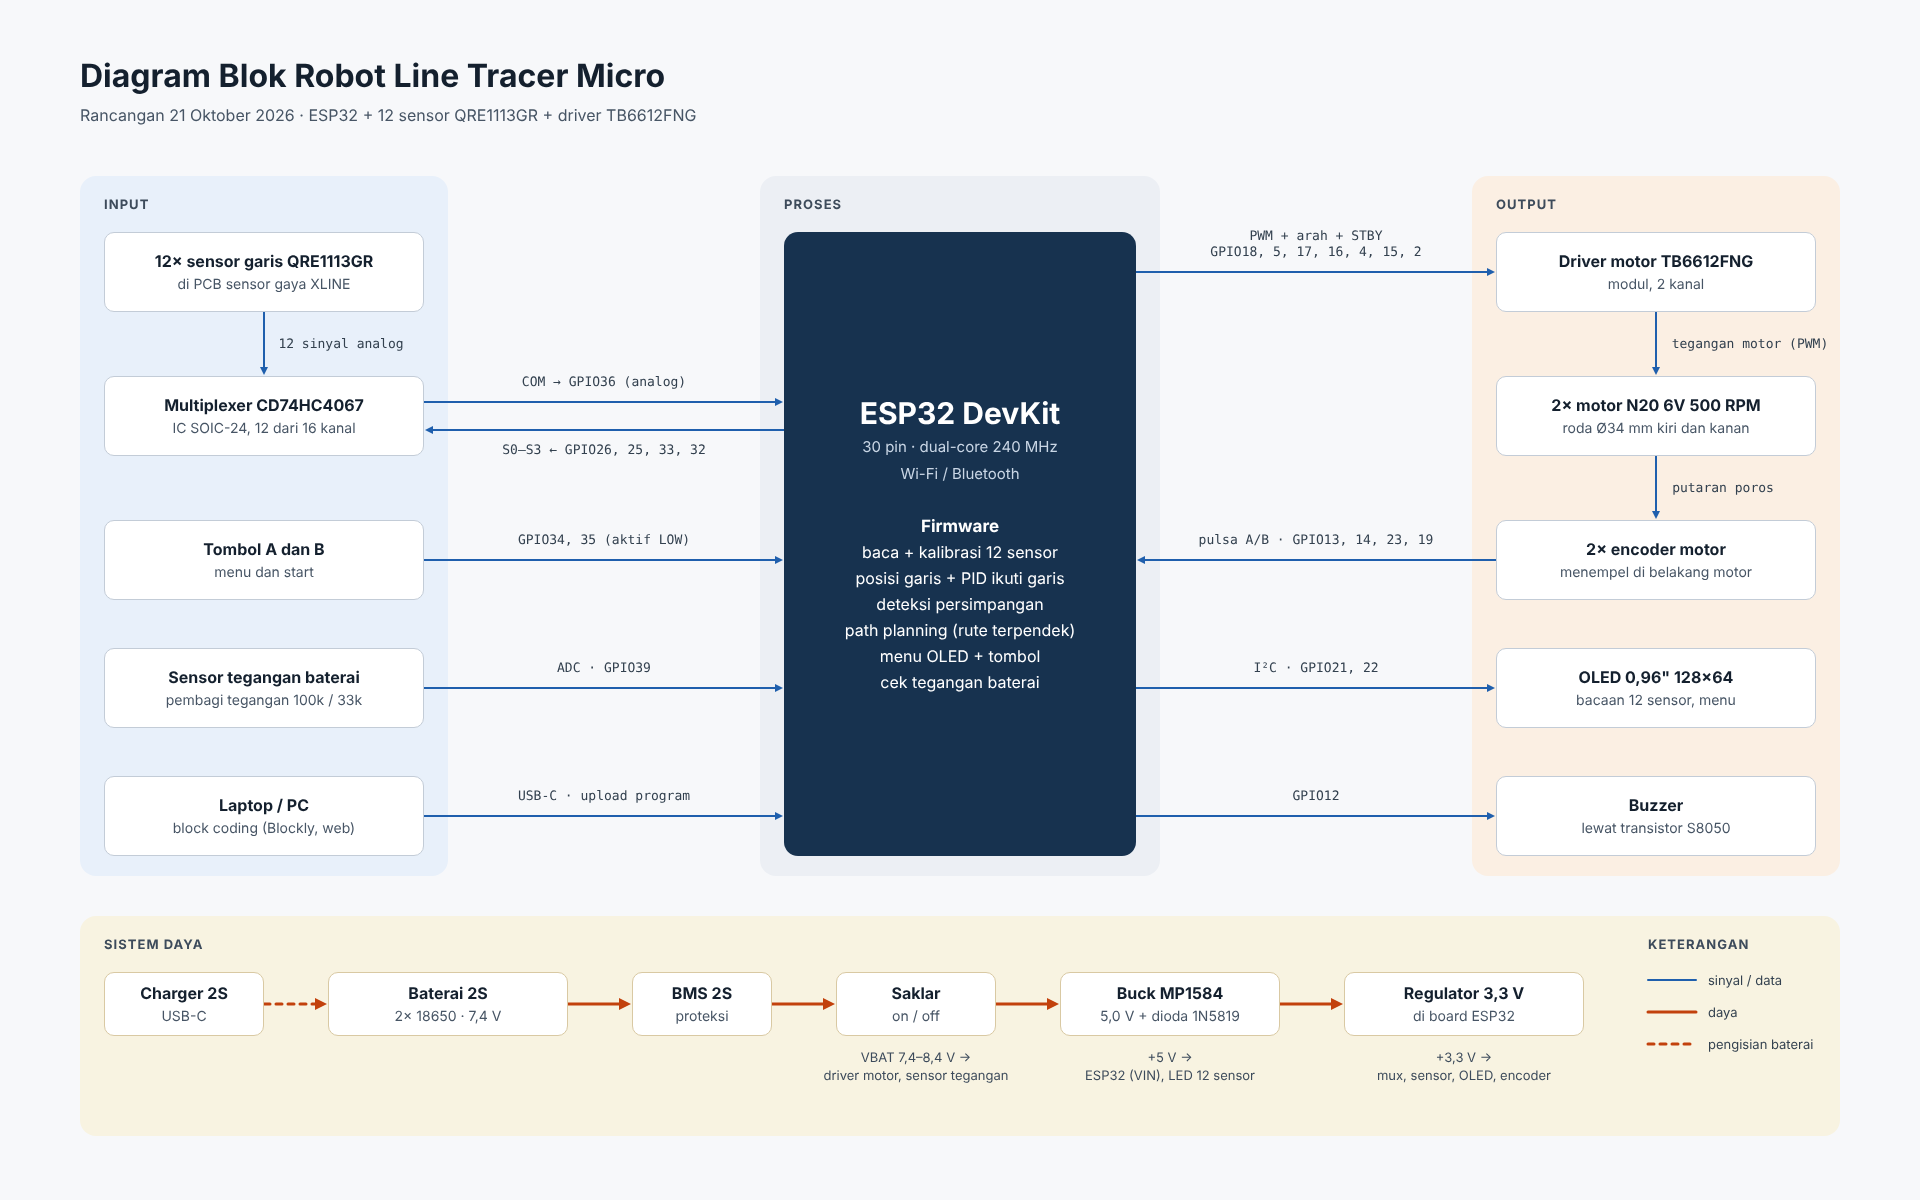
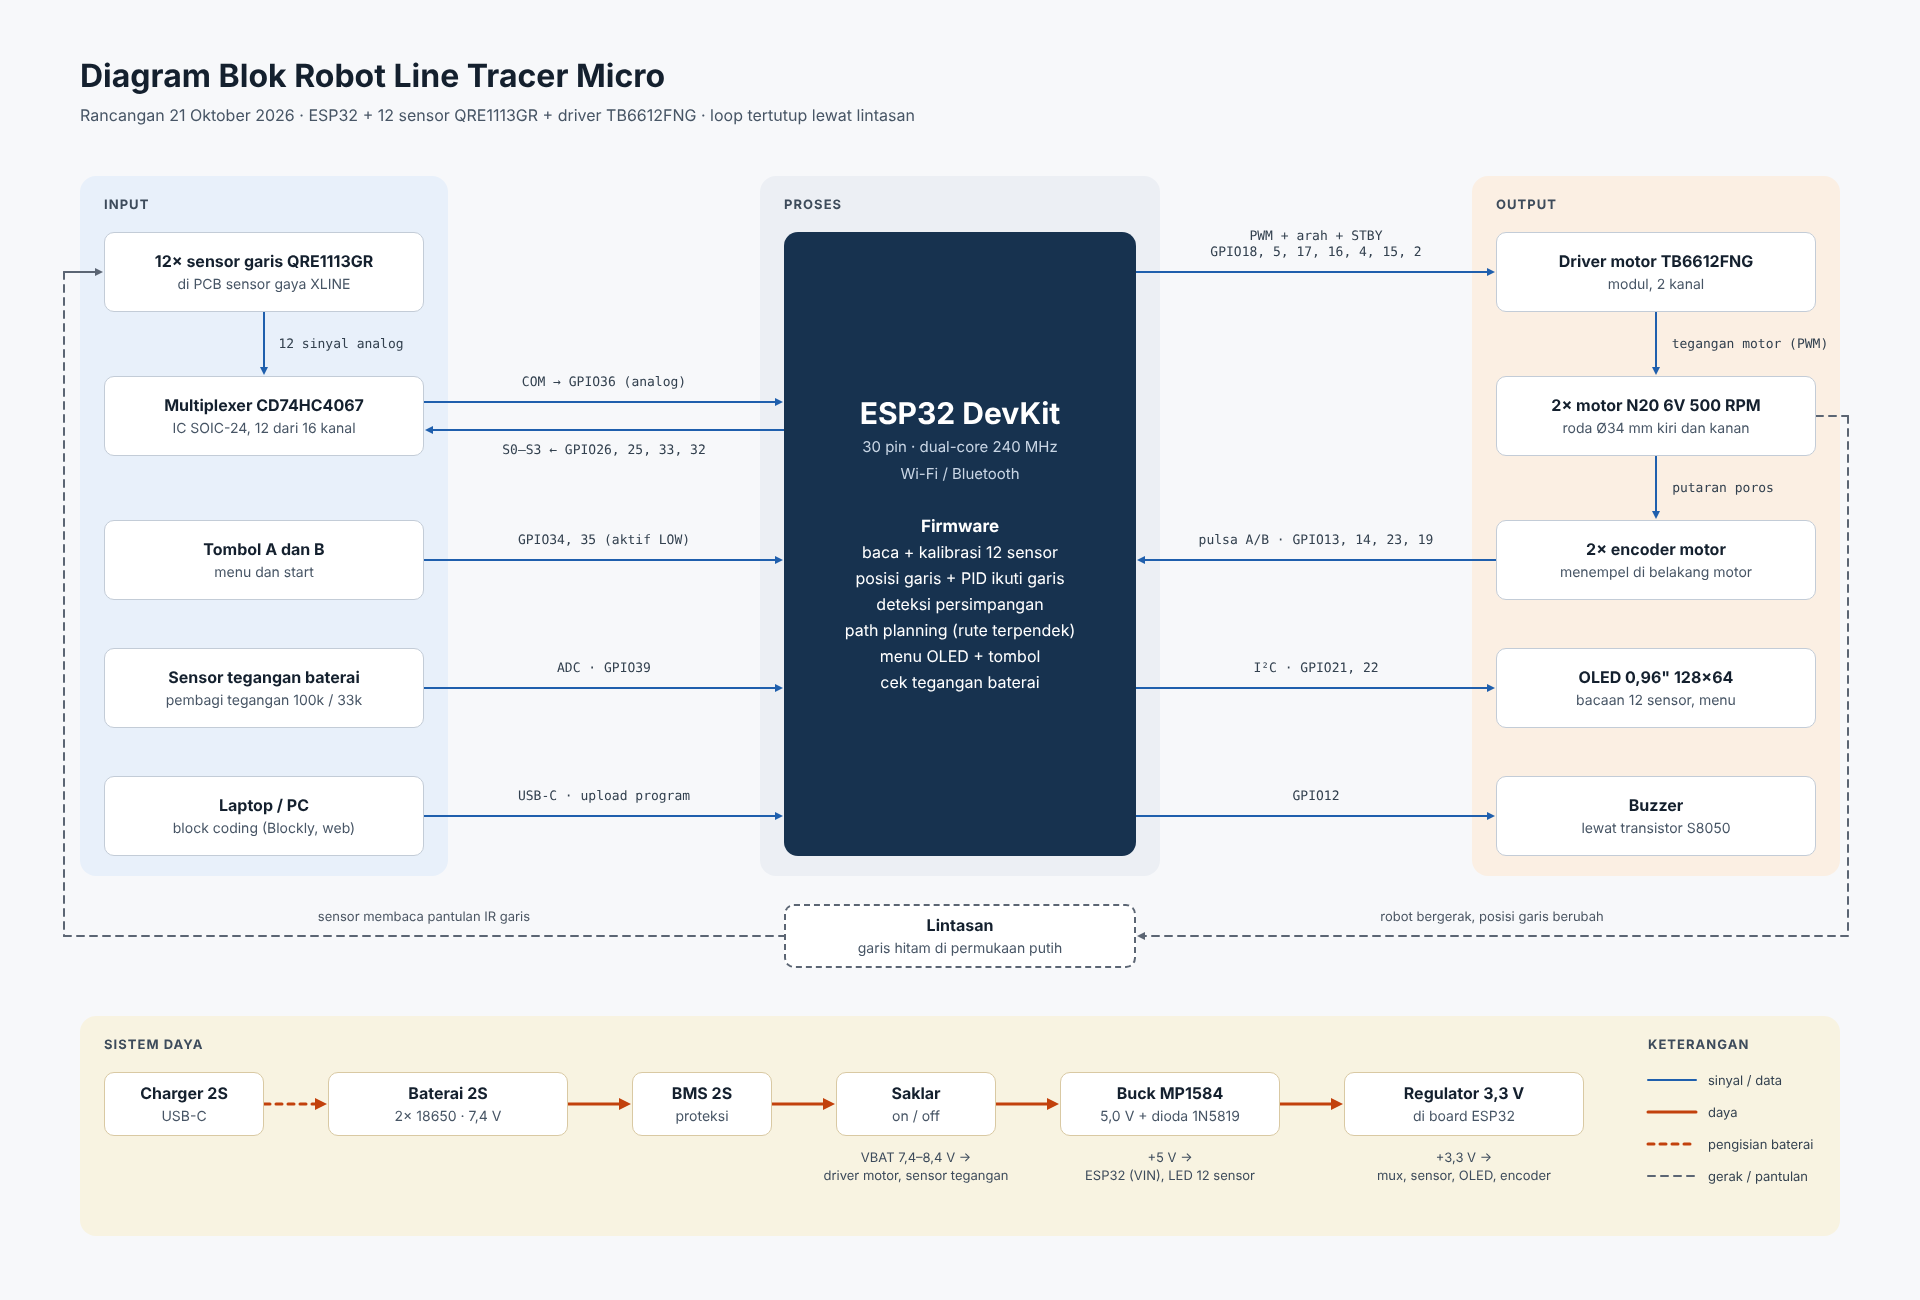
Diagram blok: loop tertutup (lintasan) + diagram kendali
Claude-Session: https://claude.ai/code/session_0155yf5wpAX58VAfqTZWuQQK

diff --git a/CLAUDE.md b/CLAUDE.md
@@ -108,8 +108,9 @@ Arsitektur 3 lapis:
   74HC4067D (SO-24) Rp35.000 di marconijawa. Butuh jalur ±0,4 mm di sekitar IC; tempat cetak PCB sanggup 0,3 mm
   (aturan 21/10: jalur 0,3 mm, jadi aman). Model v15 (link sama) diperbarui: badan tengah 34 mm, skid tengah pindah ke tab.
   RAB Rp887.000 (sisa Rp13.000).
-- Diagram blok (21/10/2026, sesuai rancangan terbaru): https://claude.ai/artifact/VgPaH3FbRFSDaHB658YTcT, gambar
-  `docs/diagram-blok.png`. Arsitektur sistem 09/10 di bawah sudah usang (5 ITR20001, MOSFET, pin map lama).
+- Diagram blok (21/10/2026, sesuai rancangan terbaru): https://claude.ai/artifact/VgPaH3FbRFSDaHB658YTcT, 2 artboard:
+  perangkat keras (`docs/diagram-blok.png`, loop ditutup lewat blok Lintasan) dan kendali loop tertutup
+  (`docs/diagram-blok-kendali.png`: r → Σ → PID → driver → motor → robot → sensor → pengolahan → y, loop dalam encoder). Arsitektur sistem 09/10 di bawah sudah usang (5 ITR20001, MOSFET, pin map lama).
 - Visual terbaru: arsitektur sistem (Claude Design, 16:9) https://claude.ai/artifact/9dNV7sB3TdaNBcSojbtzAa,
   flowchart 3 slide https://claude.ai/artifact/EMfY1GGrPrx9etNHpKmhEi
 - Bentuk robot: rendah satu bidang (gaya Ichiduino). PCB sensor panah + PCB utama sejajar ± 6 mm dari lantai,
